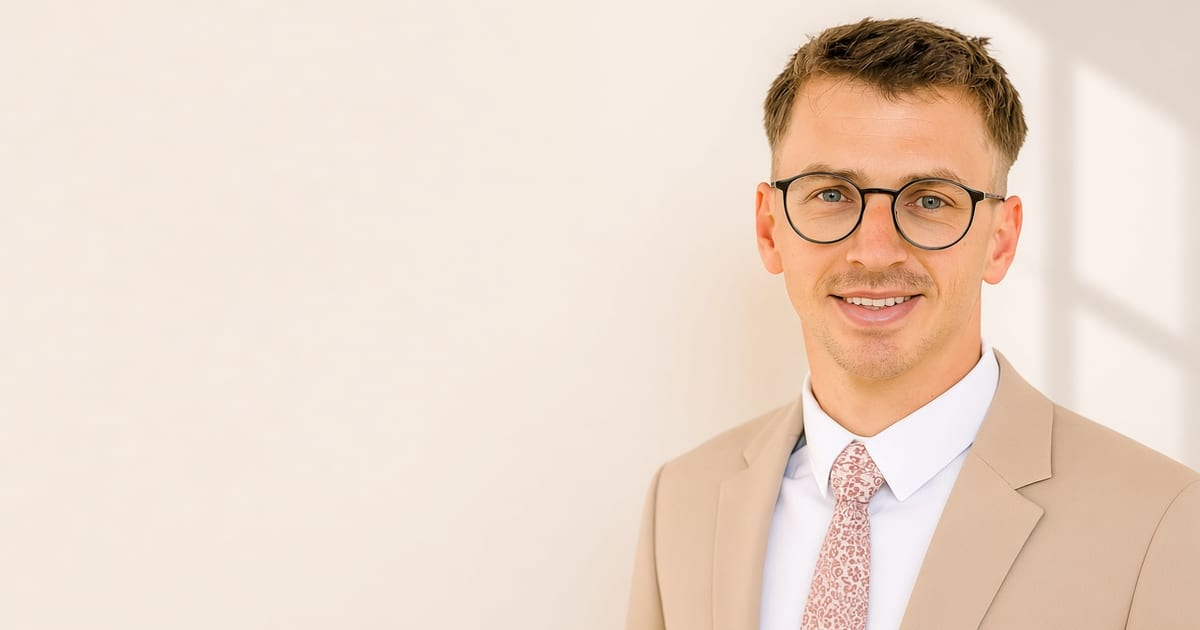
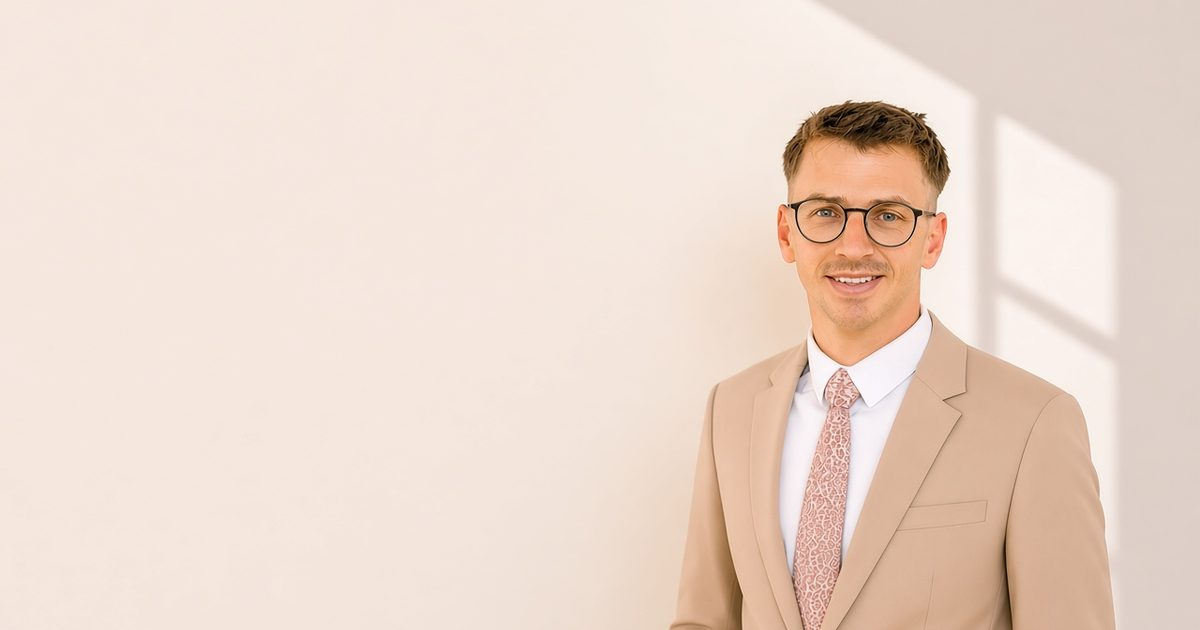
Restore a full-bleed hero with separate wide and vertical portraits.
The accepted beige-suit photographs sit edge to edge again. HTML copy uses the open wall. Phones keep the vertical frame; from tablet width up the wide frame stays at 16:9 so a short window can crop only down to 2.3:1.

Changed region(s): [[0.5242, 0.0, 1.0, 1.0]]

diff --git a/src/app/globals.css b/src/app/globals.css
@@ -419,6 +419,8 @@ button.agency-btn-secondary:disabled {
 
 .agency-text-link {
   display: inline-flex;
+  align-items: center;
+  gap: 0.4rem;
   margin-top: 1.25rem;
   color: var(--mark-text);
   font-size: 0.95rem;
@@ -444,10 +446,17 @@ button.agency-btn-secondary:disabled {
   background: var(--paper);
 }
 
+.agency-hero-media {
+  display: block;
+}
+
 .agency-hero-media img {
   display: block;
   width: 100%;
   height: auto;
+  aspect-ratio: 3 / 4;
+  object-fit: cover;
+  object-position: center center;
 }
 
 .agency-hero-copy {
@@ -478,13 +487,13 @@ button.agency-btn-secondary:disabled {
     inset: 0;
     max-width: none;
     margin: 0;
-    padding: 0.85rem 1rem;
+    padding: 1.15rem 1rem 0;
     display: flex;
-    align-items: center;
+    align-items: flex-start;
   }
 
   .agency-hero-copy {
-    width: min(58%, 13.5rem);
+    width: min(52%, 14rem);
   }
 
   .agency-hero .agency-kicker,
@@ -542,6 +551,16 @@ button.agency-btn-secondary:disabled {
   }
 }
 
+@media (min-width: 720px) and (max-width: 959px) {
+  .agency-hero-media img {
+    aspect-ratio: 16 / 9;
+  }
+
+  .agency-hero-copy {
+    width: min(46%, 22rem);
+  }
+}
+
 .agency-cta-note {
   margin-top: 0.85rem;
   max-width: 46rem;
@@ -552,48 +571,68 @@ button.agency-btn-secondary:disabled {
 
 @media (min-width: 960px) {
   .agency-hero {
-    display: grid;
-    grid-template-columns: minmax(0, 1fr) minmax(16rem, 32rem);
-    align-items: start;
-    column-gap: clamp(1.5rem, 3vw, 3rem);
-    width: min(100% - 3rem, 76rem);
-    margin-inline: auto;
-    padding: 3.25rem 0 3.75rem;
+    width: 100%;
+    margin: 0;
+    padding: 0;
+    aspect-ratio: 16 / 9;
+    max-height: calc(100svh - 4.25rem);
+    min-height: calc(100vw / 2.3);
   }
 
   .agency-hero-media {
-    position: relative;
-    grid-column: 2;
-    grid-row: 1;
-    width: 100%;
-    min-width: 0;
-    aspect-ratio: 794 / 720;
-    overflow: hidden;
-    justify-self: end;
+    position: absolute;
+    inset: 0;
   }
 
   .agency-hero-media img {
-    position: absolute;
-    top: 0;
-    right: 0;
+    width: 100%;
     height: 100%;
-    width: auto;
-    max-width: none;
+    aspect-ratio: auto;
+    object-fit: cover;
+    object-position: center center;
   }
 
   .agency-hero .agency-shell {
-    position: relative;
+    position: absolute;
+    inset: 0;
     z-index: 1;
-    grid-column: 1;
-    grid-row: 1;
     max-width: none;
-    width: auto;
+    width: 100%;
     margin: 0;
-    padding: 0;
+    padding-inline: clamp(1.5rem, 4vw, 4.5rem);
+    display: flex;
+    align-items: safe center;
   }
 
   .agency-hero-copy {
-    width: auto;
+    width: min(34rem, 48%);
+  }
+}
+
+@media (min-width: 960px) and (max-height: 760px) {
+  .agency-hero .agency-h1 {
+    margin-top: 0.4rem;
+    font-size: clamp(1.8rem, 3.1vw, 2.3rem);
+  }
+
+  .agency-hero .agency-lede {
+    margin-top: 0.7rem;
+    font-size: 0.98rem;
+    line-height: 1.45;
+  }
+
+  .agency-hero .agency-cta-row {
+    margin-top: 0.85rem;
+  }
+
+  .agency-hero .agency-hero-mail {
+    margin-top: 0.5rem;
+  }
+
+  .agency-hero .agency-cta-note {
+    margin-top: 0.4rem;
+    font-size: 0.82rem;
+    line-height: 1.4;
   }
 }
 

diff --git a/src/components/AgencyHome.tsx b/src/components/AgencyHome.tsx
@@ -221,17 +221,26 @@ export function AgencyHome({ locale }: { locale: Locale }) {
   return (
     <div className="agency">
       <section className="agency-hero">
-        <div className="agency-hero-media">
-          <img
-            src="/team/david-hero.webp"
-            srcSet="/team/david-hero-720.webp 720w, /team/david-hero-960.webp 960w, /team/david-hero.webp 1280w"
+        <picture className="agency-hero-media">
+          <source
+            media="(min-width: 720px)"
+            srcSet="/team/david-hero-desktop.webp"
+            type="image/webp"
+          />
+          <source
+            media="(max-width: 719px)"
+            srcSet="/team/david-hero-mobile-640.webp 640w, /team/david-hero-mobile.webp 864w"
             sizes="100vw"
+            type="image/webp"
+          />
+          <img
+            src="/team/david-hero-desktop.webp"
             alt={t.heroAlt}
             width={1280}
             height={720}
             decoding="async"
           />
-        </div>
+        </picture>
         <div className="agency-shell">
           <div className="agency-hero-copy">
             <p className="agency-kicker">{t.kicker}</p>
